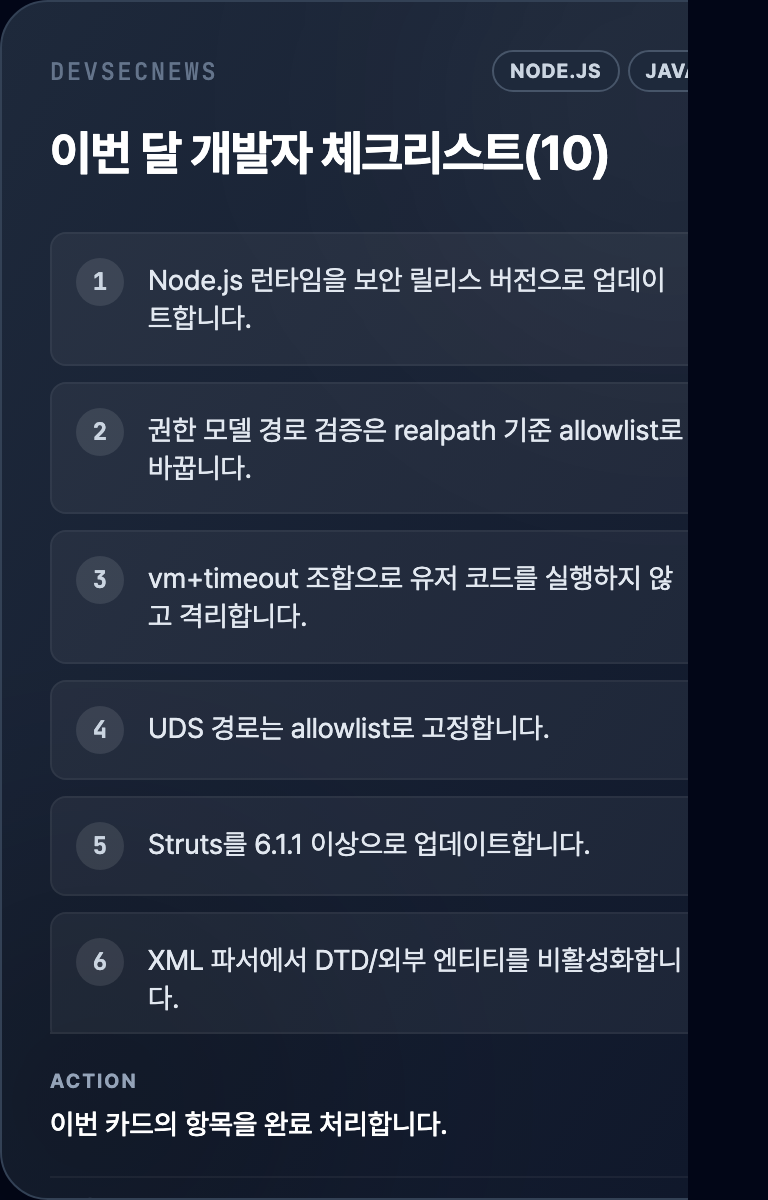
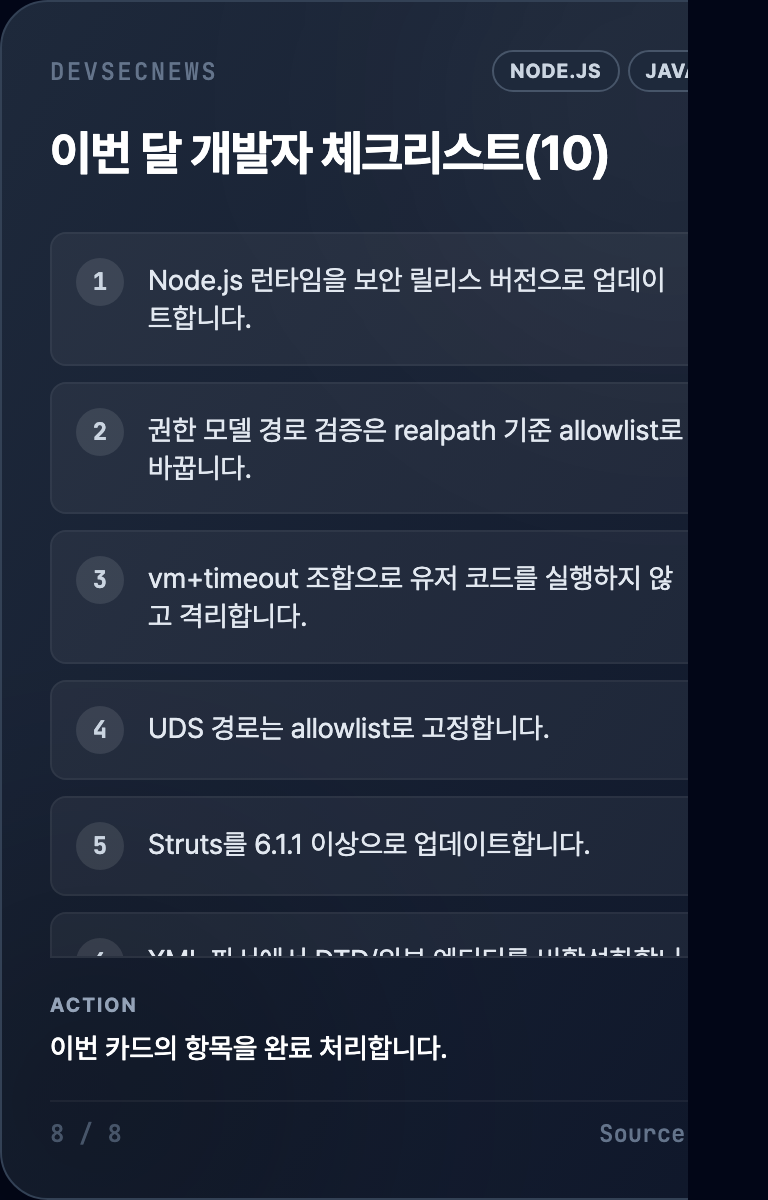
Fix card scroll in mobile

diff --git a/cards/devsecnews-2026-01-node-java/cards.html b/cards/devsecnews-2026-01-node-java/cards.html
@@ -44,6 +44,9 @@
       -ms-overflow-style: none;
       scrollbar-width: none;
     }
+    .card-scroll {
+      -webkit-overflow-scrolling: touch;
+    }
 
     body.export .deck {
       display: block;
@@ -84,7 +87,7 @@
       
         <!-- Card -->
         <article class="card snap-center flex-shrink-0 w-[85vw] max-w-sm h-full max-h-[600px] flex flex-col relative bg-gradient-to-br from-slate-900 to-violet-950 border-violet-900/50 border rounded-3xl shadow-2xl overflow-hidden snap-always">
-          <div class="flex-1 flex flex-col p-6 z-10">
+          <div class="flex-1 min-h-0 flex flex-col p-6 z-10">
             
         <div class="flex items-center gap-2 mb-4">
           <span class="text-xs font-mono uppercase tracking-widest text-slate-500">DEVSECNEWS</span>
@@ -92,7 +95,7 @@
         </div>
       
             <h2 class="text-2xl font-bold text-white leading-tight mb-4 tracking-tight">Moltbot/ClawdBot(OpenClaw) 위협 동향 + async_hooks 장애 포인트</h2>
-            <div class="flex-1 overflow-y-auto no-scrollbar mask-fade-bottom">
+            <div class="card-scroll flex-1 min-h-0 overflow-y-auto overscroll-contain no-scrollbar mask-fade-bottom">
               
           <div class="space-y-4 text-sm">
             <div class="p-3 rounded-lg bg-white/5 border border-white/5"><div class="text-xs font-bold text-slate-400 mb-1">SUMMARY</div><div class="text-slate-200 leading-relaxed"><p>Moltbot/ClawdBot(OpenClaw) 생태계는 관리 인터페이스 노출과 느슨한 공급망 통제가 겹치면 계정 탈취로 직결됩니다. 백엔드/관리 포트를 잠그고 토큰·키 노출을 차단해야 합니다.</p>
@@ -121,7 +124,7 @@
 
         <!-- Card -->
         <article class="card snap-center flex-shrink-0 w-[85vw] max-w-sm h-full max-h-[600px] flex flex-col relative bg-gradient-to-br from-slate-900 to-green-950 border-green-900/50 border rounded-3xl shadow-2xl overflow-hidden snap-always">
-          <div class="flex-1 flex flex-col p-6 z-10">
+          <div class="flex-1 min-h-0 flex flex-col p-6 z-10">
             
         <div class="flex items-center gap-2 mb-4">
           <span class="text-xs font-mono uppercase tracking-widest text-slate-500">DEVSECNEWS</span>
@@ -129,7 +132,7 @@
         </div>
       
             <h2 class="text-2xl font-bold text-white leading-tight mb-4 tracking-tight">Node.js 보안 릴리스 업데이트</h2>
-            <div class="flex-1 overflow-y-auto no-scrollbar mask-fade-bottom">
+            <div class="card-scroll flex-1 min-h-0 overflow-y-auto overscroll-contain no-scrollbar mask-fade-bottom">
               
           <div class="space-y-4 text-sm">
             <div class="p-3 rounded-lg bg-white/5 border border-white/5"><div class="text-xs font-bold text-slate-400 mb-1">SUMMARY</div><div class="text-slate-200 leading-relaxed"><p>20/22/24/25 라인 보안 릴리스가 나왔습니다. 권한 모델과 vm 타임아웃 이슈가 핵심입니다.</p>
@@ -160,7 +163,7 @@
 
         <!-- Card -->
         <article class="card snap-center flex-shrink-0 w-[85vw] max-w-sm h-full max-h-[600px] flex flex-col relative bg-gradient-to-br from-slate-900 to-green-950 border-green-900/50 border rounded-3xl shadow-2xl overflow-hidden snap-always">
-          <div class="flex-1 flex flex-col p-6 z-10">
+          <div class="flex-1 min-h-0 flex flex-col p-6 z-10">
             
         <div class="flex items-center gap-2 mb-4">
           <span class="text-xs font-mono uppercase tracking-widest text-slate-500">DEVSECNEWS</span>
@@ -168,7 +171,7 @@
         </div>
       
             <h2 class="text-2xl font-bold text-white leading-tight mb-4 tracking-tight">symlink 우회 경로 검증</h2>
-            <div class="flex-1 overflow-y-auto no-scrollbar mask-fade-bottom">
+            <div class="card-scroll flex-1 min-h-0 overflow-y-auto overscroll-contain no-scrollbar mask-fade-bottom">
               
           <div class="space-y-4 text-sm">
             <div class="p-3 rounded-lg bg-white/5 border border-white/5"><div class="text-xs font-bold text-slate-400 mb-1">SUMMARY</div><div class="text-slate-200 leading-relaxed"><p>권한 모델의 문자열 기반 경로 검증이 우회됩니다. realpath 기준으로 바꿉니다.</p>
@@ -199,7 +202,7 @@
 
         <!-- Card -->
         <article class="card snap-center flex-shrink-0 w-[85vw] max-w-sm h-full max-h-[600px] flex flex-col relative bg-gradient-to-br from-slate-900 to-green-950 border-green-900/50 border rounded-3xl shadow-2xl overflow-hidden snap-always">
-          <div class="flex-1 flex flex-col p-6 z-10">
+          <div class="flex-1 min-h-0 flex flex-col p-6 z-10">
             
         <div class="flex items-center gap-2 mb-4">
           <span class="text-xs font-mono uppercase tracking-widest text-slate-500">DEVSECNEWS</span>
@@ -207,7 +210,7 @@
         </div>
       
             <h2 class="text-2xl font-bold text-white leading-tight mb-4 tracking-tight">UDS 우회 차단</h2>
-            <div class="flex-1 overflow-y-auto no-scrollbar mask-fade-bottom">
+            <div class="card-scroll flex-1 min-h-0 overflow-y-auto overscroll-contain no-scrollbar mask-fade-bottom">
               
           <div class="space-y-4 text-sm">
             <div class="p-3 rounded-lg bg-white/5 border border-white/5"><div class="text-xs font-bold text-slate-400 mb-1">SUMMARY</div><div class="text-slate-200 leading-relaxed"><p>UDS 경로 입력을 허용하면 네트워크 차단이 무력화됩니다.</p>
@@ -238,7 +241,7 @@
 
         <!-- Card -->
         <article class="card snap-center flex-shrink-0 w-[85vw] max-w-sm h-full max-h-[600px] flex flex-col relative bg-gradient-to-br from-slate-900 to-orange-950 border-orange-900/50 border rounded-3xl shadow-2xl overflow-hidden snap-always">
-          <div class="flex-1 flex flex-col p-6 z-10">
+          <div class="flex-1 min-h-0 flex flex-col p-6 z-10">
             
         <div class="flex items-center gap-2 mb-4">
           <span class="text-xs font-mono uppercase tracking-widest text-slate-500">DEVSECNEWS</span>
@@ -246,7 +249,7 @@
         </div>
       
             <h2 class="text-2xl font-bold text-white leading-tight mb-4 tracking-tight">Struts S2-069(XXE)</h2>
-            <div class="flex-1 overflow-y-auto no-scrollbar mask-fade-bottom">
+            <div class="card-scroll flex-1 min-h-0 overflow-y-auto overscroll-contain no-scrollbar mask-fade-bottom">
               
           <div class="space-y-4 text-sm">
             <div class="p-3 rounded-lg bg-white/5 border border-white/5"><div class="text-xs font-bold text-slate-400 mb-1">SUMMARY</div><div class="text-slate-200 leading-relaxed"><p>XML 파서 기본값이 남아 있으면 XXE가 열립니다.</p>
@@ -277,7 +280,7 @@
 
         <!-- Card -->
         <article class="card snap-center flex-shrink-0 w-[85vw] max-w-sm h-full max-h-[600px] flex flex-col relative bg-gradient-to-br from-slate-900 to-orange-950 border-orange-900/50 border rounded-3xl shadow-2xl overflow-hidden snap-always">
-          <div class="flex-1 flex flex-col p-6 z-10">
+          <div class="flex-1 min-h-0 flex flex-col p-6 z-10">
             
         <div class="flex items-center gap-2 mb-4">
           <span class="text-xs font-mono uppercase tracking-widest text-slate-500">DEVSECNEWS</span>
@@ -285,7 +288,7 @@
         </div>
       
             <h2 class="text-2xl font-bold text-white leading-tight mb-4 tracking-tight">JasperReports 역직렬화 경계</h2>
-            <div class="flex-1 overflow-y-auto no-scrollbar mask-fade-bottom">
+            <div class="card-scroll flex-1 min-h-0 overflow-y-auto overscroll-contain no-scrollbar mask-fade-bottom">
               
           <div class="space-y-4 text-sm">
             <div class="p-3 rounded-lg bg-white/5 border border-white/5"><div class="text-xs font-bold text-slate-400 mb-1">SUMMARY</div><div class="text-slate-200 leading-relaxed"><p>외부 템플릿/직렬화 입력이 RCE로 이어집니다.</p>
@@ -316,7 +319,7 @@
 
         <!-- Card -->
         <article class="card snap-center flex-shrink-0 w-[85vw] max-w-sm h-full max-h-[600px] flex flex-col relative bg-gradient-to-br from-slate-900 to-orange-950 border-orange-900/50 border rounded-3xl shadow-2xl overflow-hidden snap-always">
-          <div class="flex-1 flex flex-col p-6 z-10">
+          <div class="flex-1 min-h-0 flex flex-col p-6 z-10">
             
         <div class="flex items-center gap-2 mb-4">
           <span class="text-xs font-mono uppercase tracking-widest text-slate-500">DEVSECNEWS</span>
@@ -324,7 +327,7 @@
         </div>
       
             <h2 class="text-2xl font-bold text-white leading-tight mb-4 tracking-tight">EOL 확장 즉시 제거</h2>
-            <div class="flex-1 overflow-y-auto no-scrollbar mask-fade-bottom">
+            <div class="card-scroll flex-1 min-h-0 overflow-y-auto overscroll-contain no-scrollbar mask-fade-bottom">
               
           <div class="space-y-4 text-sm">
             <div class="p-3 rounded-lg bg-white/5 border border-white/5"><div class="text-xs font-bold text-slate-400 mb-1">SUMMARY</div><div class="text-slate-200 leading-relaxed"><p>EOL 개발 도구는 패치가 없습니다. 확장을 즉시 제거합니다.</p>
@@ -355,7 +358,7 @@
 
         <!-- Card -->
         <article class="card snap-center flex-shrink-0 w-[85vw] max-w-sm h-full max-h-[600px] flex flex-col relative bg-gradient-to-br from-slate-800 to-slate-900 border-slate-700 border rounded-3xl shadow-2xl overflow-hidden snap-always">
-          <div class="flex-1 flex flex-col p-6 z-10">
+          <div class="flex-1 min-h-0 flex flex-col p-6 z-10">
             
         <div class="flex items-center gap-2 mb-4">
           <span class="text-xs font-mono uppercase tracking-widest text-slate-500">DEVSECNEWS</span>
@@ -363,7 +366,7 @@
         </div>
       
             <h2 class="text-2xl font-bold text-white leading-tight mb-4 tracking-tight">이번 달 개발자 체크리스트(10)</h2>
-            <div class="flex-1 overflow-y-auto no-scrollbar mask-fade-bottom">
+            <div class="card-scroll flex-1 min-h-0 overflow-y-auto overscroll-contain no-scrollbar mask-fade-bottom">
               <ul class="space-y-2 mt-2 max-h-[400px] overflow-y-auto pr-1 custom-scrollbar">
             <li class="flex gap-3 items-start p-3 bg-white/5 rounded-lg border border-white/5">
               <span class="flex-shrink-0 flex items-center justify-center w-6 h-6 rounded-full bg-white/10 text-xs font-bold font-mono text-slate-300">1</span>

diff --git a/docs/cards/devsecnews-2026-01-node-java/cards.html b/docs/cards/devsecnews-2026-01-node-java/cards.html
@@ -44,6 +44,9 @@
       -ms-overflow-style: none;
       scrollbar-width: none;
     }
+    .card-scroll {
+      -webkit-overflow-scrolling: touch;
+    }
 
     body.export .deck {
       display: block;
@@ -84,7 +87,7 @@
       
         <!-- Card -->
         <article class="card snap-center flex-shrink-0 w-[85vw] max-w-sm h-full max-h-[600px] flex flex-col relative bg-gradient-to-br from-slate-900 to-violet-950 border-violet-900/50 border rounded-3xl shadow-2xl overflow-hidden snap-always">
-          <div class="flex-1 flex flex-col p-6 z-10">
+          <div class="flex-1 min-h-0 flex flex-col p-6 z-10">
             
         <div class="flex items-center gap-2 mb-4">
           <span class="text-xs font-mono uppercase tracking-widest text-slate-500">DEVSECNEWS</span>
@@ -92,7 +95,7 @@
         </div>
       
             <h2 class="text-2xl font-bold text-white leading-tight mb-4 tracking-tight">Moltbot/ClawdBot(OpenClaw) 위협 동향 + async_hooks 장애 포인트</h2>
-            <div class="flex-1 overflow-y-auto no-scrollbar mask-fade-bottom">
+            <div class="card-scroll flex-1 min-h-0 overflow-y-auto overscroll-contain no-scrollbar mask-fade-bottom">
               
           <div class="space-y-4 text-sm">
             <div class="p-3 rounded-lg bg-white/5 border border-white/5"><div class="text-xs font-bold text-slate-400 mb-1">SUMMARY</div><div class="text-slate-200 leading-relaxed"><p>Moltbot/ClawdBot(OpenClaw) 생태계는 관리 인터페이스 노출과 느슨한 공급망 통제가 겹치면 계정 탈취로 직결됩니다. 백엔드/관리 포트를 잠그고 토큰·키 노출을 차단해야 합니다.</p>
@@ -121,7 +124,7 @@
 
         <!-- Card -->
         <article class="card snap-center flex-shrink-0 w-[85vw] max-w-sm h-full max-h-[600px] flex flex-col relative bg-gradient-to-br from-slate-900 to-green-950 border-green-900/50 border rounded-3xl shadow-2xl overflow-hidden snap-always">
-          <div class="flex-1 flex flex-col p-6 z-10">
+          <div class="flex-1 min-h-0 flex flex-col p-6 z-10">
             
         <div class="flex items-center gap-2 mb-4">
           <span class="text-xs font-mono uppercase tracking-widest text-slate-500">DEVSECNEWS</span>
@@ -129,7 +132,7 @@
         </div>
       
             <h2 class="text-2xl font-bold text-white leading-tight mb-4 tracking-tight">Node.js 보안 릴리스 업데이트</h2>
-            <div class="flex-1 overflow-y-auto no-scrollbar mask-fade-bottom">
+            <div class="card-scroll flex-1 min-h-0 overflow-y-auto overscroll-contain no-scrollbar mask-fade-bottom">
               
           <div class="space-y-4 text-sm">
             <div class="p-3 rounded-lg bg-white/5 border border-white/5"><div class="text-xs font-bold text-slate-400 mb-1">SUMMARY</div><div class="text-slate-200 leading-relaxed"><p>20/22/24/25 라인 보안 릴리스가 나왔습니다. 권한 모델과 vm 타임아웃 이슈가 핵심입니다.</p>
@@ -160,7 +163,7 @@
 
         <!-- Card -->
         <article class="card snap-center flex-shrink-0 w-[85vw] max-w-sm h-full max-h-[600px] flex flex-col relative bg-gradient-to-br from-slate-900 to-green-950 border-green-900/50 border rounded-3xl shadow-2xl overflow-hidden snap-always">
-          <div class="flex-1 flex flex-col p-6 z-10">
+          <div class="flex-1 min-h-0 flex flex-col p-6 z-10">
             
         <div class="flex items-center gap-2 mb-4">
           <span class="text-xs font-mono uppercase tracking-widest text-slate-500">DEVSECNEWS</span>
@@ -168,7 +171,7 @@
         </div>
       
             <h2 class="text-2xl font-bold text-white leading-tight mb-4 tracking-tight">symlink 우회 경로 검증</h2>
-            <div class="flex-1 overflow-y-auto no-scrollbar mask-fade-bottom">
+            <div class="card-scroll flex-1 min-h-0 overflow-y-auto overscroll-contain no-scrollbar mask-fade-bottom">
               
           <div class="space-y-4 text-sm">
             <div class="p-3 rounded-lg bg-white/5 border border-white/5"><div class="text-xs font-bold text-slate-400 mb-1">SUMMARY</div><div class="text-slate-200 leading-relaxed"><p>권한 모델의 문자열 기반 경로 검증이 우회됩니다. realpath 기준으로 바꿉니다.</p>
@@ -199,7 +202,7 @@
 
         <!-- Card -->
         <article class="card snap-center flex-shrink-0 w-[85vw] max-w-sm h-full max-h-[600px] flex flex-col relative bg-gradient-to-br from-slate-900 to-green-950 border-green-900/50 border rounded-3xl shadow-2xl overflow-hidden snap-always">
-          <div class="flex-1 flex flex-col p-6 z-10">
+          <div class="flex-1 min-h-0 flex flex-col p-6 z-10">
             
         <div class="flex items-center gap-2 mb-4">
           <span class="text-xs font-mono uppercase tracking-widest text-slate-500">DEVSECNEWS</span>
@@ -207,7 +210,7 @@
         </div>
       
             <h2 class="text-2xl font-bold text-white leading-tight mb-4 tracking-tight">UDS 우회 차단</h2>
-            <div class="flex-1 overflow-y-auto no-scrollbar mask-fade-bottom">
+            <div class="card-scroll flex-1 min-h-0 overflow-y-auto overscroll-contain no-scrollbar mask-fade-bottom">
               
           <div class="space-y-4 text-sm">
             <div class="p-3 rounded-lg bg-white/5 border border-white/5"><div class="text-xs font-bold text-slate-400 mb-1">SUMMARY</div><div class="text-slate-200 leading-relaxed"><p>UDS 경로 입력을 허용하면 네트워크 차단이 무력화됩니다.</p>
@@ -238,7 +241,7 @@
 
         <!-- Card -->
         <article class="card snap-center flex-shrink-0 w-[85vw] max-w-sm h-full max-h-[600px] flex flex-col relative bg-gradient-to-br from-slate-900 to-orange-950 border-orange-900/50 border rounded-3xl shadow-2xl overflow-hidden snap-always">
-          <div class="flex-1 flex flex-col p-6 z-10">
+          <div class="flex-1 min-h-0 flex flex-col p-6 z-10">
             
         <div class="flex items-center gap-2 mb-4">
           <span class="text-xs font-mono uppercase tracking-widest text-slate-500">DEVSECNEWS</span>
@@ -246,7 +249,7 @@
         </div>
       
             <h2 class="text-2xl font-bold text-white leading-tight mb-4 tracking-tight">Struts S2-069(XXE)</h2>
-            <div class="flex-1 overflow-y-auto no-scrollbar mask-fade-bottom">
+            <div class="card-scroll flex-1 min-h-0 overflow-y-auto overscroll-contain no-scrollbar mask-fade-bottom">
               
           <div class="space-y-4 text-sm">
             <div class="p-3 rounded-lg bg-white/5 border border-white/5"><div class="text-xs font-bold text-slate-400 mb-1">SUMMARY</div><div class="text-slate-200 leading-relaxed"><p>XML 파서 기본값이 남아 있으면 XXE가 열립니다.</p>
@@ -277,7 +280,7 @@
 
         <!-- Card -->
         <article class="card snap-center flex-shrink-0 w-[85vw] max-w-sm h-full max-h-[600px] flex flex-col relative bg-gradient-to-br from-slate-900 to-orange-950 border-orange-900/50 border rounded-3xl shadow-2xl overflow-hidden snap-always">
-          <div class="flex-1 flex flex-col p-6 z-10">
+          <div class="flex-1 min-h-0 flex flex-col p-6 z-10">
             
         <div class="flex items-center gap-2 mb-4">
           <span class="text-xs font-mono uppercase tracking-widest text-slate-500">DEVSECNEWS</span>
@@ -285,7 +288,7 @@
         </div>
       
             <h2 class="text-2xl font-bold text-white leading-tight mb-4 tracking-tight">JasperReports 역직렬화 경계</h2>
-            <div class="flex-1 overflow-y-auto no-scrollbar mask-fade-bottom">
+            <div class="card-scroll flex-1 min-h-0 overflow-y-auto overscroll-contain no-scrollbar mask-fade-bottom">
               
           <div class="space-y-4 text-sm">
             <div class="p-3 rounded-lg bg-white/5 border border-white/5"><div class="text-xs font-bold text-slate-400 mb-1">SUMMARY</div><div class="text-slate-200 leading-relaxed"><p>외부 템플릿/직렬화 입력이 RCE로 이어집니다.</p>
@@ -316,7 +319,7 @@
 
         <!-- Card -->
         <article class="card snap-center flex-shrink-0 w-[85vw] max-w-sm h-full max-h-[600px] flex flex-col relative bg-gradient-to-br from-slate-900 to-orange-950 border-orange-900/50 border rounded-3xl shadow-2xl overflow-hidden snap-always">
-          <div class="flex-1 flex flex-col p-6 z-10">
+          <div class="flex-1 min-h-0 flex flex-col p-6 z-10">
             
         <div class="flex items-center gap-2 mb-4">
           <span class="text-xs font-mono uppercase tracking-widest text-slate-500">DEVSECNEWS</span>
@@ -324,7 +327,7 @@
         </div>
       
             <h2 class="text-2xl font-bold text-white leading-tight mb-4 tracking-tight">EOL 확장 즉시 제거</h2>
-            <div class="flex-1 overflow-y-auto no-scrollbar mask-fade-bottom">
+            <div class="card-scroll flex-1 min-h-0 overflow-y-auto overscroll-contain no-scrollbar mask-fade-bottom">
               
           <div class="space-y-4 text-sm">
             <div class="p-3 rounded-lg bg-white/5 border border-white/5"><div class="text-xs font-bold text-slate-400 mb-1">SUMMARY</div><div class="text-slate-200 leading-relaxed"><p>EOL 개발 도구는 패치가 없습니다. 확장을 즉시 제거합니다.</p>
@@ -355,7 +358,7 @@
 
         <!-- Card -->
         <article class="card snap-center flex-shrink-0 w-[85vw] max-w-sm h-full max-h-[600px] flex flex-col relative bg-gradient-to-br from-slate-800 to-slate-900 border-slate-700 border rounded-3xl shadow-2xl overflow-hidden snap-always">
-          <div class="flex-1 flex flex-col p-6 z-10">
+          <div class="flex-1 min-h-0 flex flex-col p-6 z-10">
             
         <div class="flex items-center gap-2 mb-4">
           <span class="text-xs font-mono uppercase tracking-widest text-slate-500">DEVSECNEWS</span>
@@ -363,7 +366,7 @@
         </div>
       
             <h2 class="text-2xl font-bold text-white leading-tight mb-4 tracking-tight">이번 달 개발자 체크리스트(10)</h2>
-            <div class="flex-1 overflow-y-auto no-scrollbar mask-fade-bottom">
+            <div class="card-scroll flex-1 min-h-0 overflow-y-auto overscroll-contain no-scrollbar mask-fade-bottom">
               <ul class="space-y-2 mt-2 max-h-[400px] overflow-y-auto pr-1 custom-scrollbar">
             <li class="flex gap-3 items-start p-3 bg-white/5 rounded-lg border border-white/5">
               <span class="flex-shrink-0 flex items-center justify-center w-6 h-6 rounded-full bg-white/10 text-xs font-bold font-mono text-slate-300">1</span>
